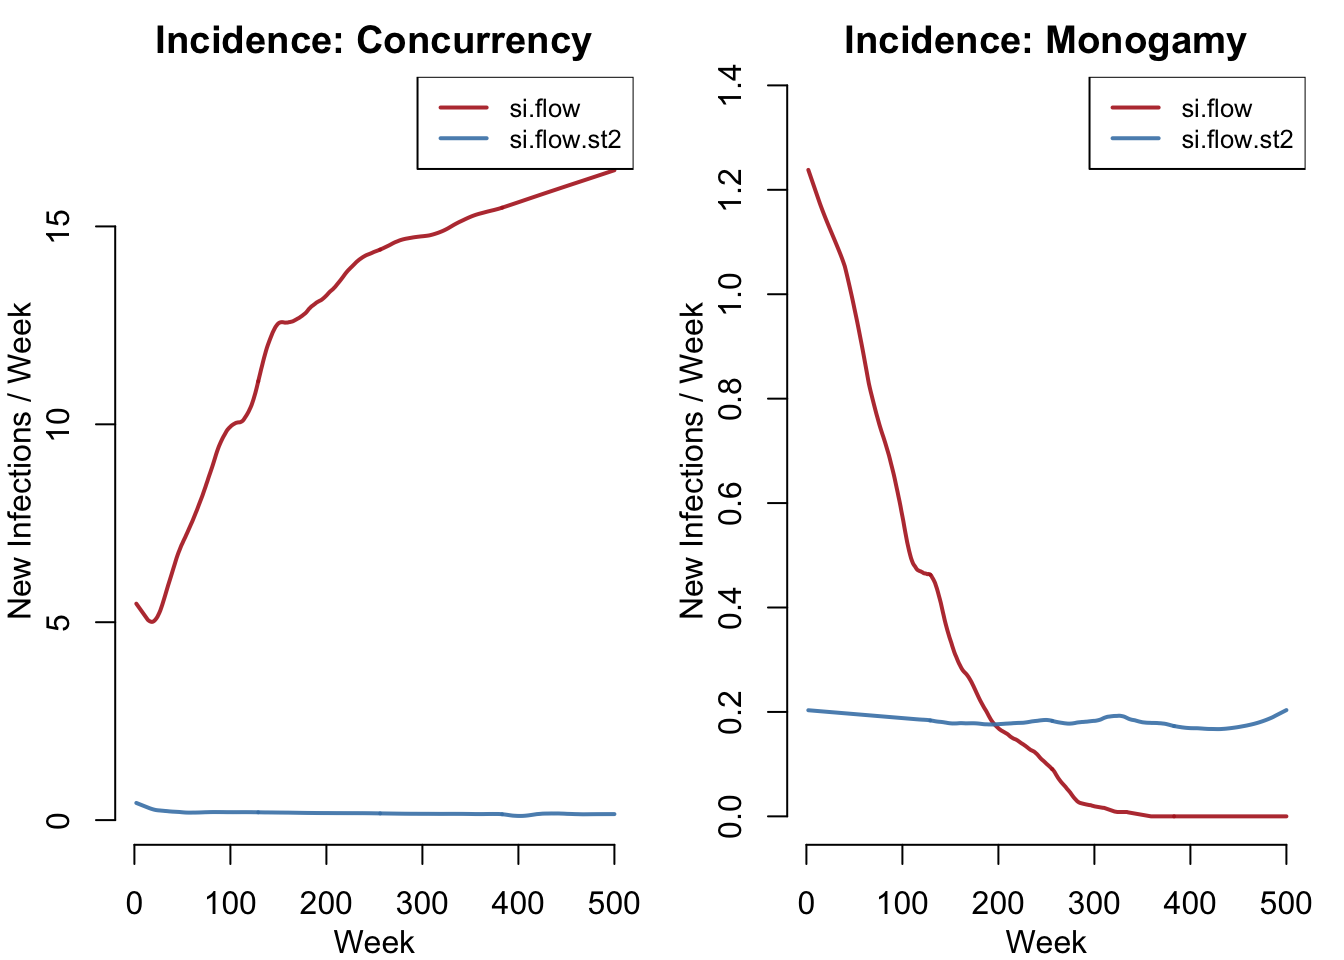
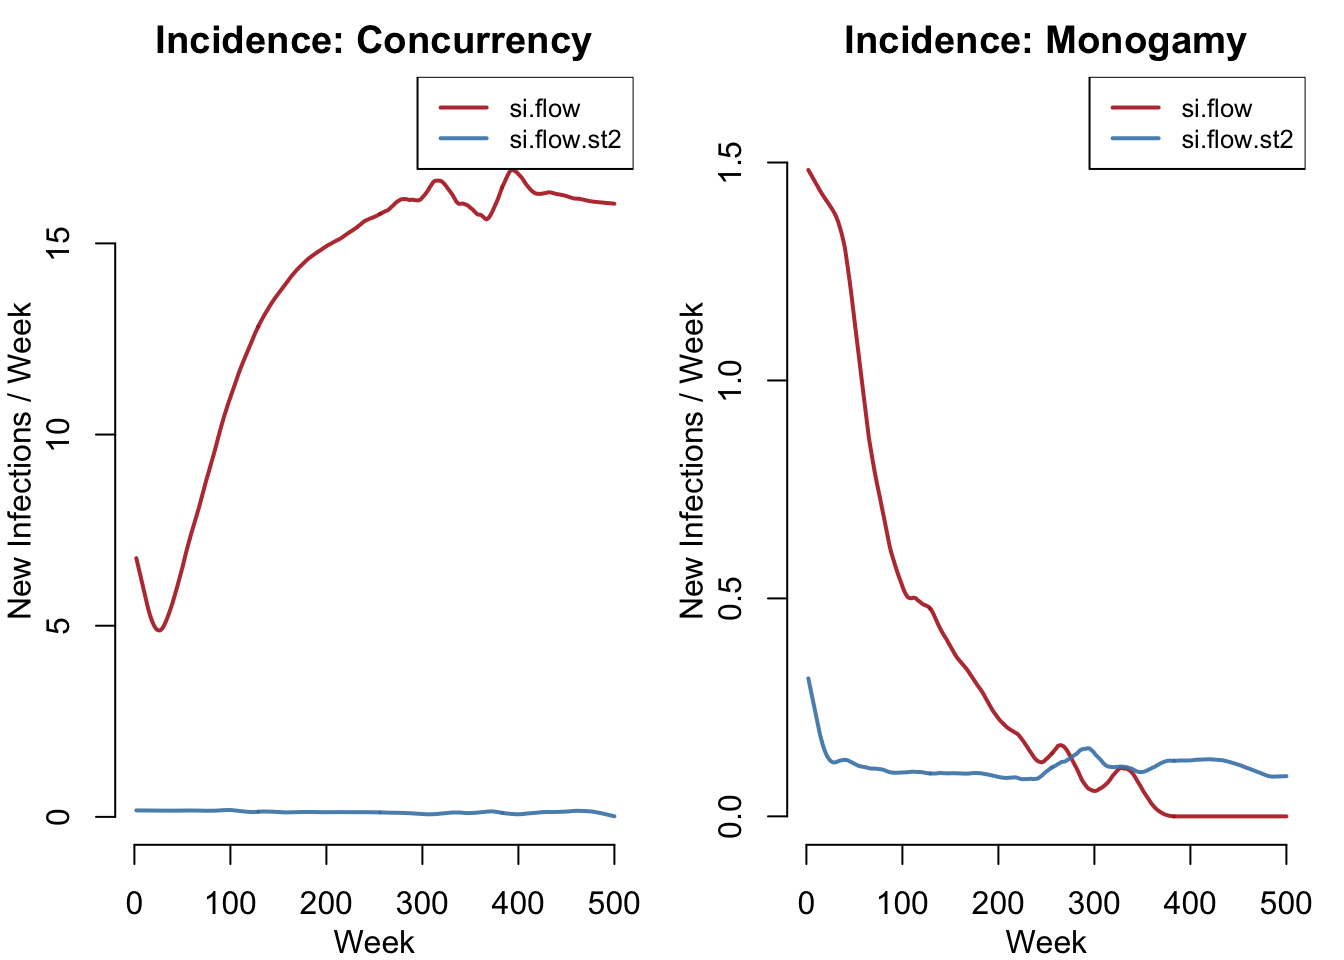
Drop the copied duration-of-infection lookup from two custom modules
sis-competing-strains and cost-effectiveness copied EpiModel's old built-in
lookup, which read inf.prob and act.rate as vectors indexed by duration of
infection. Both examples pass single values, so it never did anything, and
EpiModel 2.7.0 replaces that form with by_infection_duration(), whose stage
form these copies would misread. The modules now use the values directly
and keep infDur for the transmission matrix, and the page text no longer
calls this "time-varying infectiousness".

The cost-effectiveness run is seeded and renders unchanged. The competing
strains run was not, and the re-render showed strain 2 persisting under
concurrency where the page said it might die out; the run is now seeded and
the page states what held across 17 seeded runs.

diff --git a/examples/sis-competing-strains/README.md b/examples/sis-competing-strains/README.md
@@ -65,7 +65,7 @@ Runs once at the first module call. Assigns each initially infected node to stra
 
 ### Two-Strain Infection Module (`infection.2strains`)
 
-Replaces EpiModel's built-in `infection.net` to implement strain-specific transmission. For each discordant edge, the per-act transmission probability is determined by the infected partner's strain (`inf.prob` for strain 1, `inf.prob.st2` for strain 2). Both parameters can be time-varying vectors indexed by infection duration. Newly infected individuals inherit the infecting partner's strain. When multiple infections target the same susceptible in one timestep, the first infector (by edgelist order) determines the strain. Records strain-specific incidence (`si.flow`, `si.flow.st2`) and prevalence (`i.num.st1`, `i.num.st2`).
+Replaces EpiModel's built-in `infection.net` to implement strain-specific transmission. For each discordant edge, the per-act transmission probability is determined by the infected partner's strain (`inf.prob` for strain 1, `inf.prob.st2` for strain 2). Newly infected individuals inherit the infecting partner's strain. When multiple infections target the same susceptible in one timestep, the first infector (by edgelist order) determines the strain. Records strain-specific incidence (`si.flow`, `si.flow.st2`) and prevalence (`i.num.st1`, `i.num.st2`).
 
 ### Two-Strain Recovery Module (`recov.2strains`)
 
@@ -124,8 +124,8 @@ The run script compares two network structures to demonstrate how concurrency de
 
 | Scenario | Concurrency | Expected Outcome |
 |----------|-------------|-----------------|
-| Model 1 (random) | Allowed (~120 nodes) | Strain 1 (acute) dominates; strain 2 may go extinct |
-| Model 2 (monogamy) | Prohibited (0 nodes) | Strain 2 (chronic) dominates; strain 1 goes extinct |
+| Model 1 (random) | Allowed (~120 nodes) | Strain 1 (acute) dominates; strain 2 persists at low prevalence |
+| Model 2 (monogamy) | Prohibited (0 nodes) | Strain 2 (chronic) dominates; strain 1 dies out |
 
 An interactive sensitivity analysis sweeps concurrency from 0 to 120, plotting the full crossover curve. The transition occurs at approximately 70 concurrent nodes.
 
